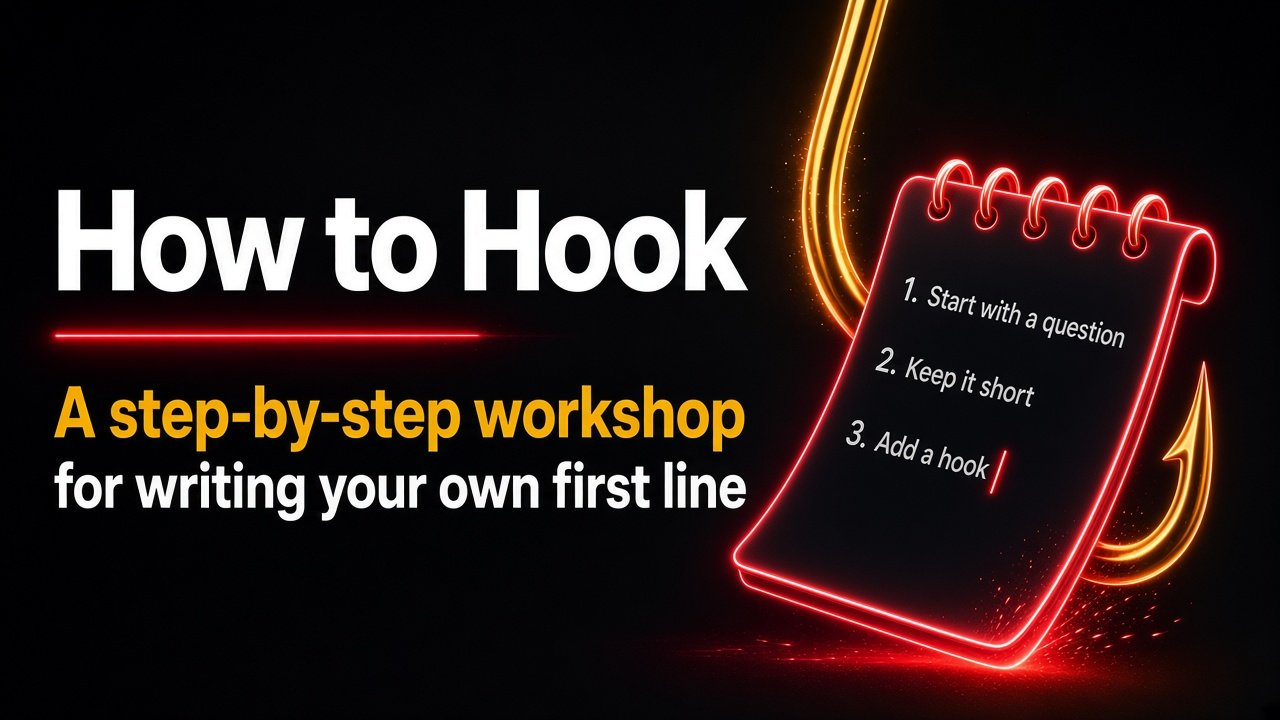
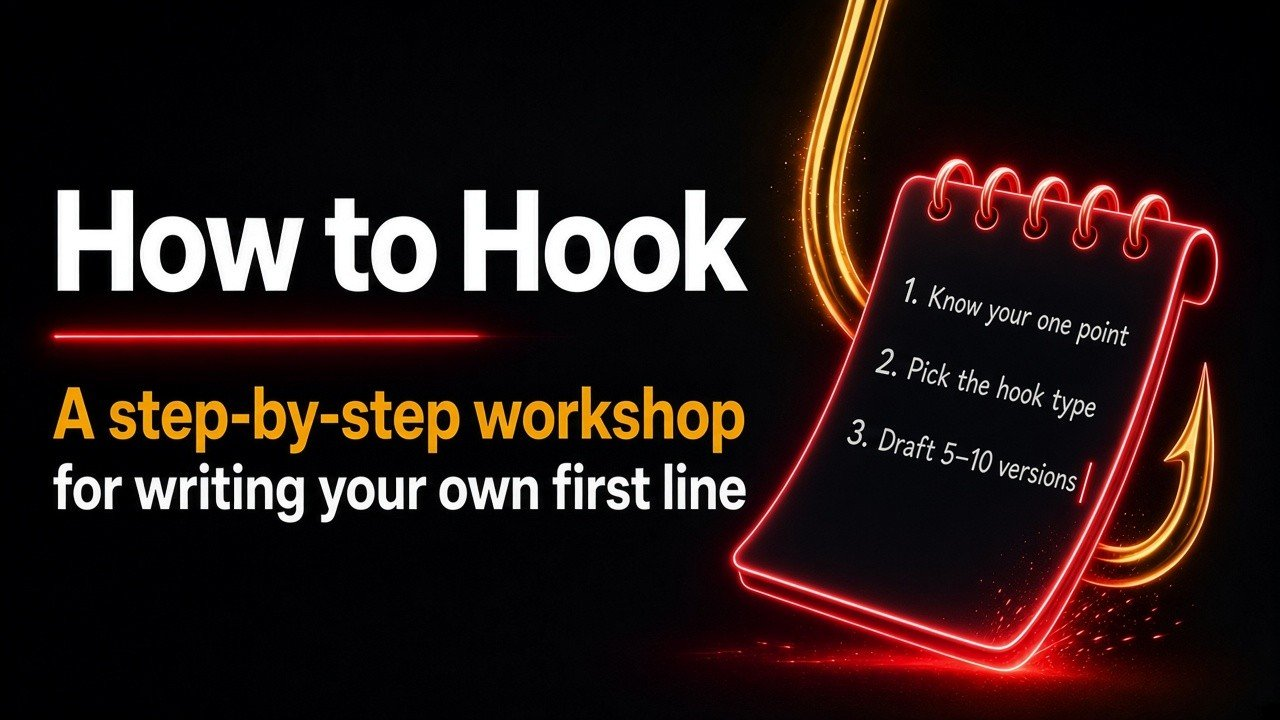
How to Hook: og image v2

diff --git a/how-to-hook/index.html b/how-to-hook/index.html
@@ -16,11 +16,11 @@
 <meta property="og:url" content="https://willemvroom.com/how-to-hook/">
 <meta property="og:title" content="How to Hook — write your own first line">
 <meta property="og:description" content="A step-by-step workshop for writing your own hook on X: steps, a worked example, rewrites, a checklist and fill-in templates.">
-<meta property="og:image" content="https://willemvroom.com/work/how-to-hook-og.jpg?v=1">
+<meta property="og:image" content="https://willemvroom.com/work/how-to-hook-og.jpg?v=2">
 <meta property="og:image:width" content="1280">
 <meta property="og:image:height" content="720">
 <meta name="twitter:card" content="summary_large_image">
-<meta name="twitter:image" content="https://willemvroom.com/work/how-to-hook-og.jpg?v=1">
+<meta name="twitter:image" content="https://willemvroom.com/work/how-to-hook-og.jpg?v=2">
 <script>(function(){try{var t=localStorage.getItem("wv-theme");if(t==="dark"||(!t&&matchMedia("(prefers-color-scheme: dark)").matches)){document.documentElement.classList.add("dark");var m=document.querySelector('meta[name="theme-color"]');if(m)m.setAttribute("content","#0b0b0b");}}catch(e){}})();</script>
 <style>.ai-glow{color:#ff2a3a;text-shadow:0 0 12px rgba(255,42,58,.55)}.chk li{list-style:none;margin-left:-1.2rem}.chk li:before{content:"☐ ";}@media print{.wv-head,footer,video,.noprint{display:none}}.pbtn{display:inline-flex;align-items:center;min-height:44px;padding:.5rem 1rem;border:1px solid currentColor;border-radius:999px;font-weight:600;text-decoration:none!important;margin:.5rem .6rem 0 0;background:none;color:inherit;font-size:.9rem;cursor:pointer}.pbtn.bold{background:#ff2a3a;border-color:#ff2a3a;color:#fff}.pbtn:focus-visible,.g a:focus-visible,.g select:focus-visible,.g textarea:focus-visible{outline:3px solid #ff2a3a;outline-offset:2px}.g select,.g textarea{width:100%;font:inherit;font-size:max(16px,1rem);padding:.7rem;border:1px solid rgba(127,127,127,.5);border-radius:10px;background:transparent;color:inherit}.g select option{color:#000}.g label{display:block;font-weight:600;margin-top:1rem}</style>
 <style>
